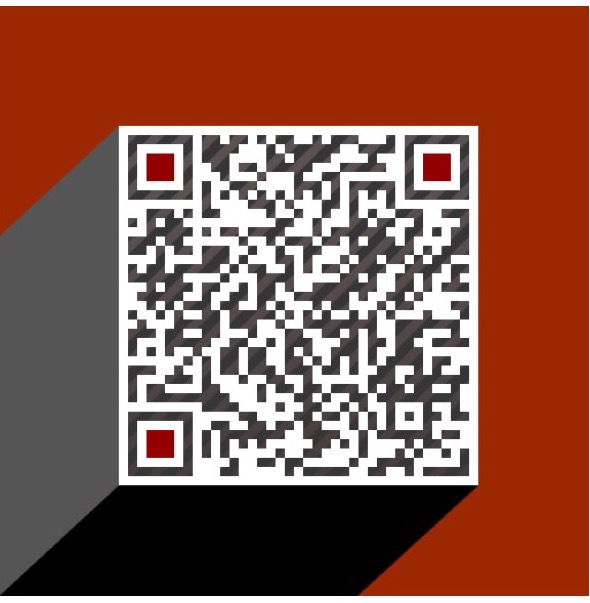
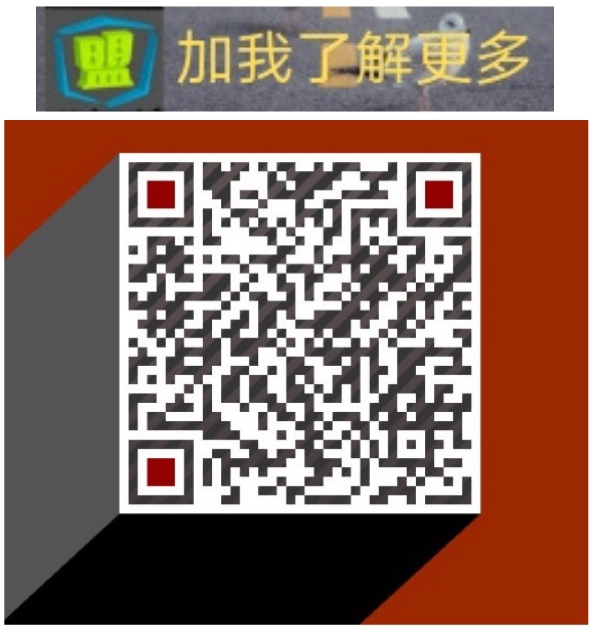
鑫联盟更换二维码

diff --git a/_layouts/post.html b/_layouts/post.html
@@ -90,7 +90,7 @@ layout: default
             <!-- 打赏功能 -->
             <div>
                 <div style="padding: 10px 0; margin: 20px auto; width: 90%; text-align: center;">
-                <div>☛兄dei，请我喝杯茶☚</div>
+                <div>☛加入鑫联盟，未来不是梦☚</div>
                 <button id="rewardButton" disable="enable" onclick="var qr = document.getElementById('QR'); if (qr.style.display === 'none') {qr.style.display='block';} else {qr.style.display='none'}">
                     <span>打赏</span>
                 </button>
@@ -99,14 +99,14 @@ layout: default
                         
                 <div id="wechat" style="display: inline-block">
                 <img id="wechat_qr" src="/img/payimg/weipayimg.jpg" alt="yizibi 微信支付"/>
-                            <p>微信支付</p>
+                            <p>微信顾问</p>
                 </div>
                         
                         
                         
                 <div id="alipay" style="display: inline-block">
                 <img id="alipay_qr" src="/img/payimg/alipayimg.jpg" alt="yizibi 支付宝"/>
-                <p>支付宝</p>
+                <p>鑫联盟Pro</p>
                 </div>
                         
                         
